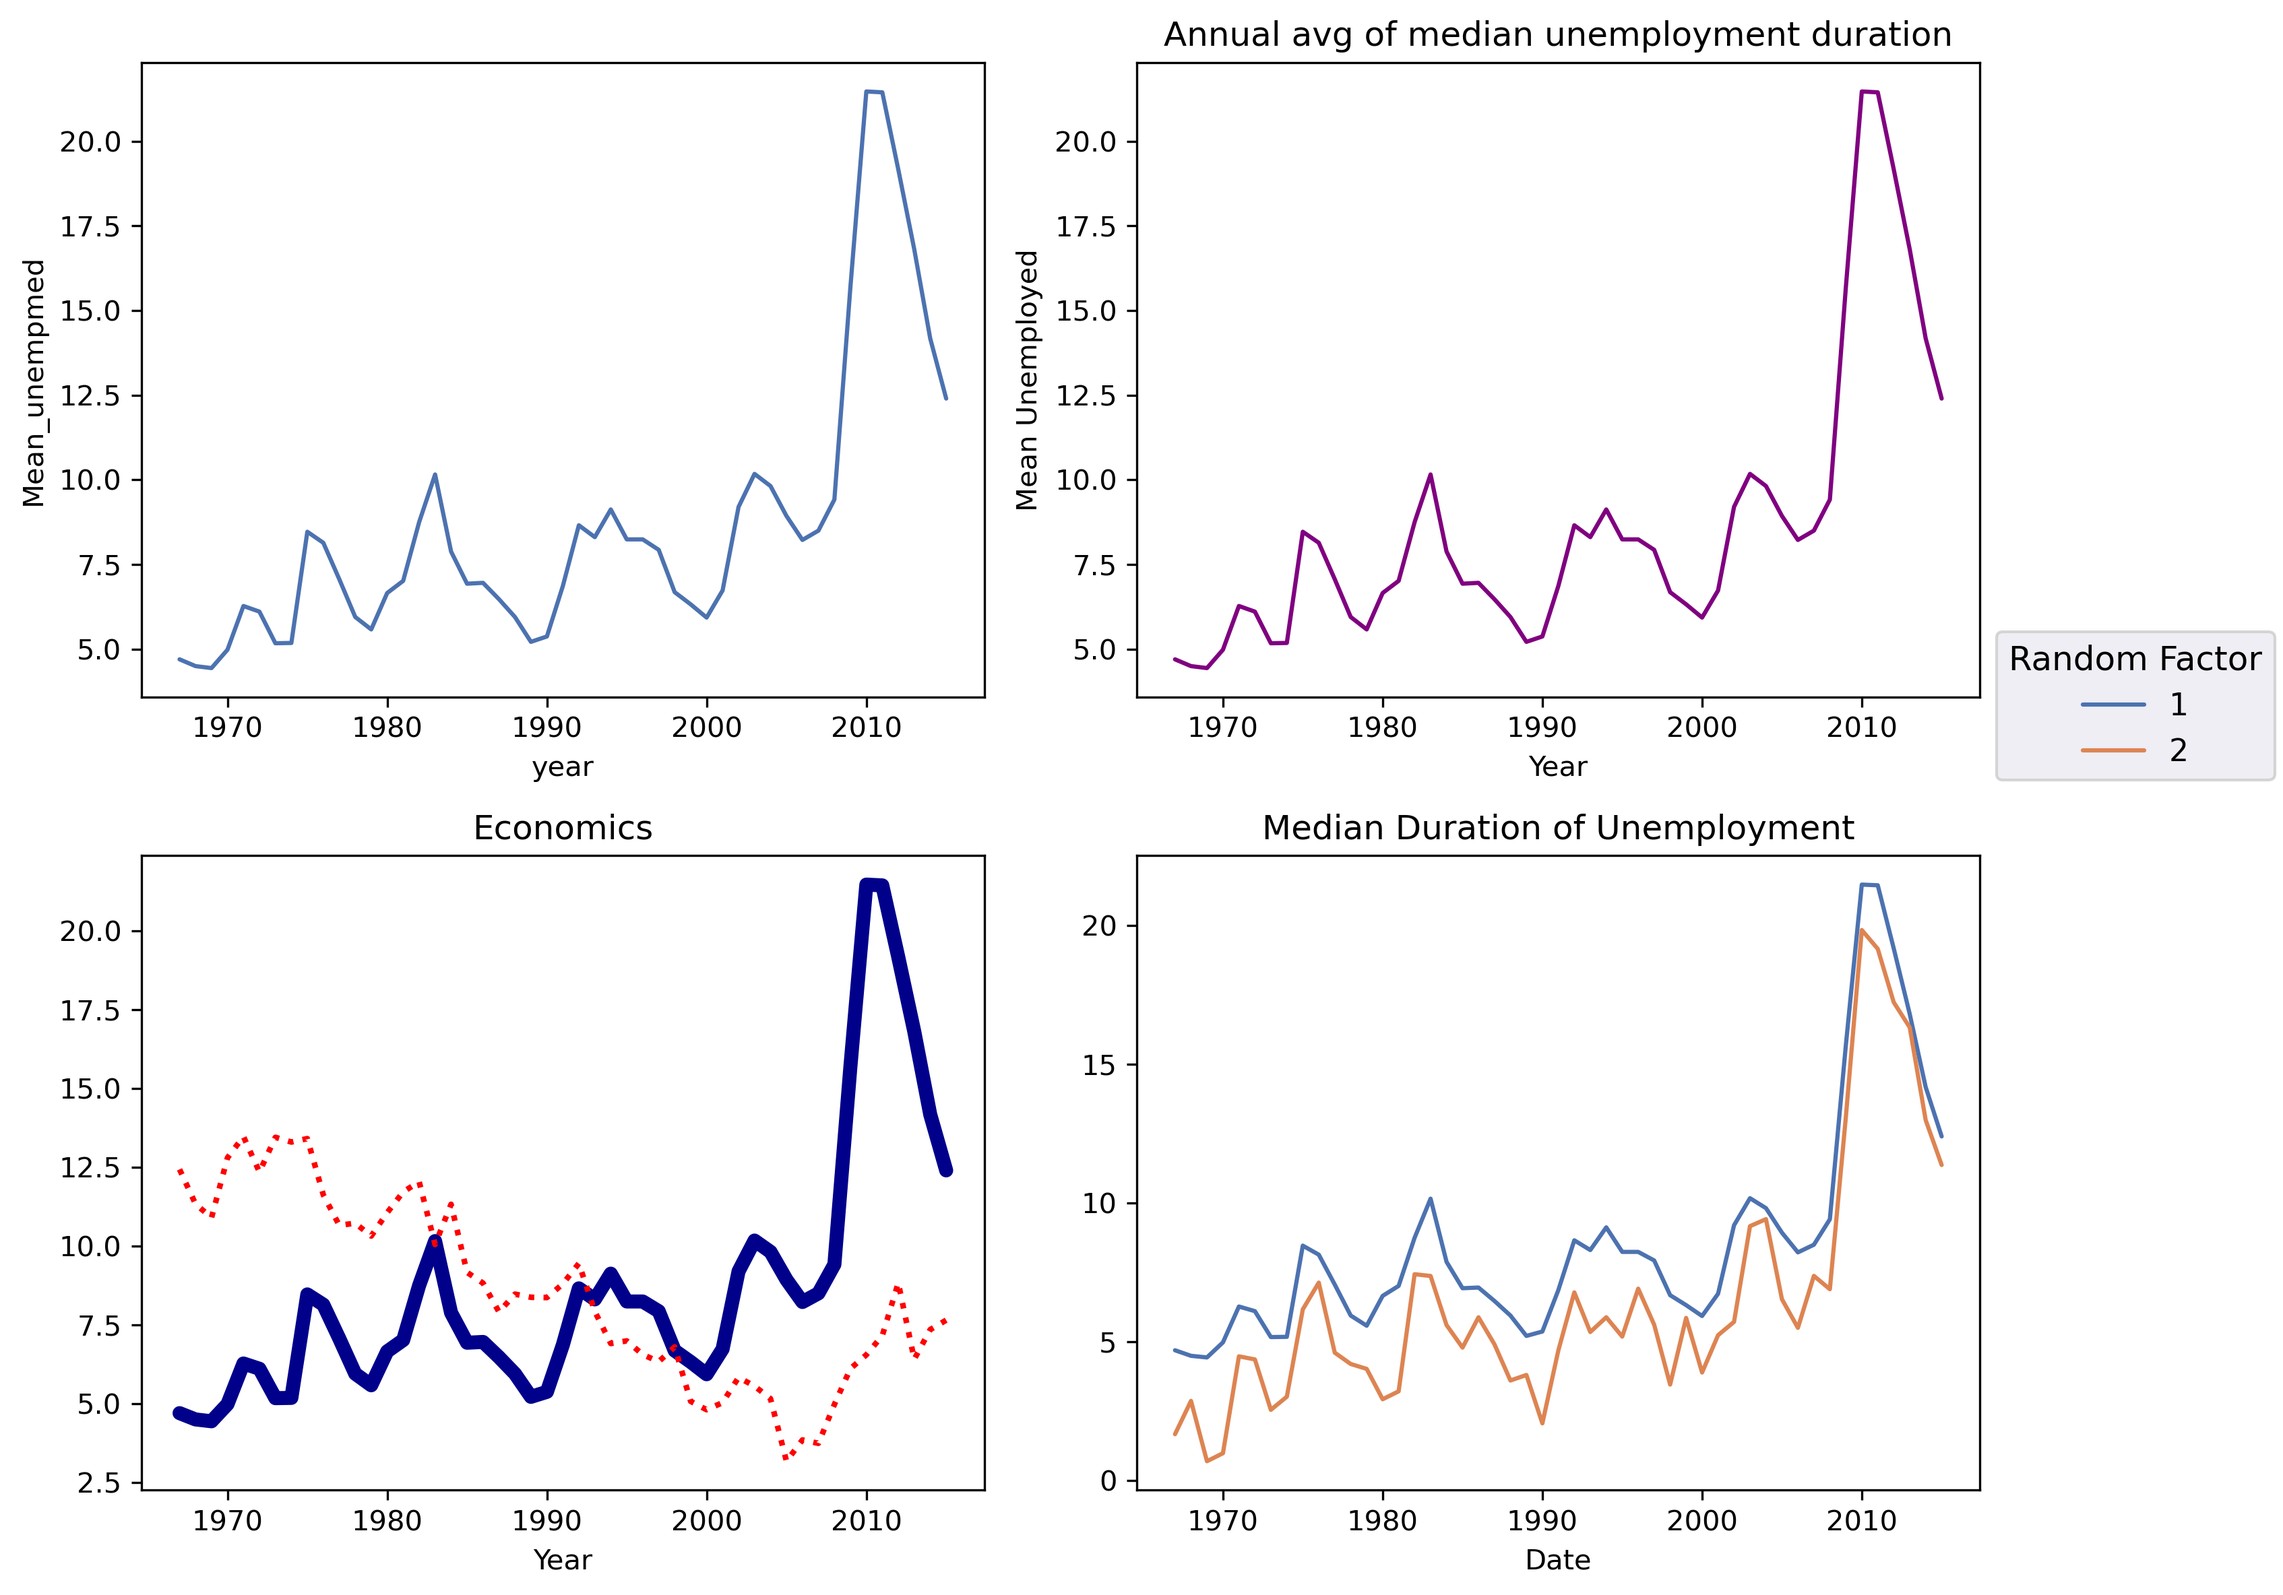
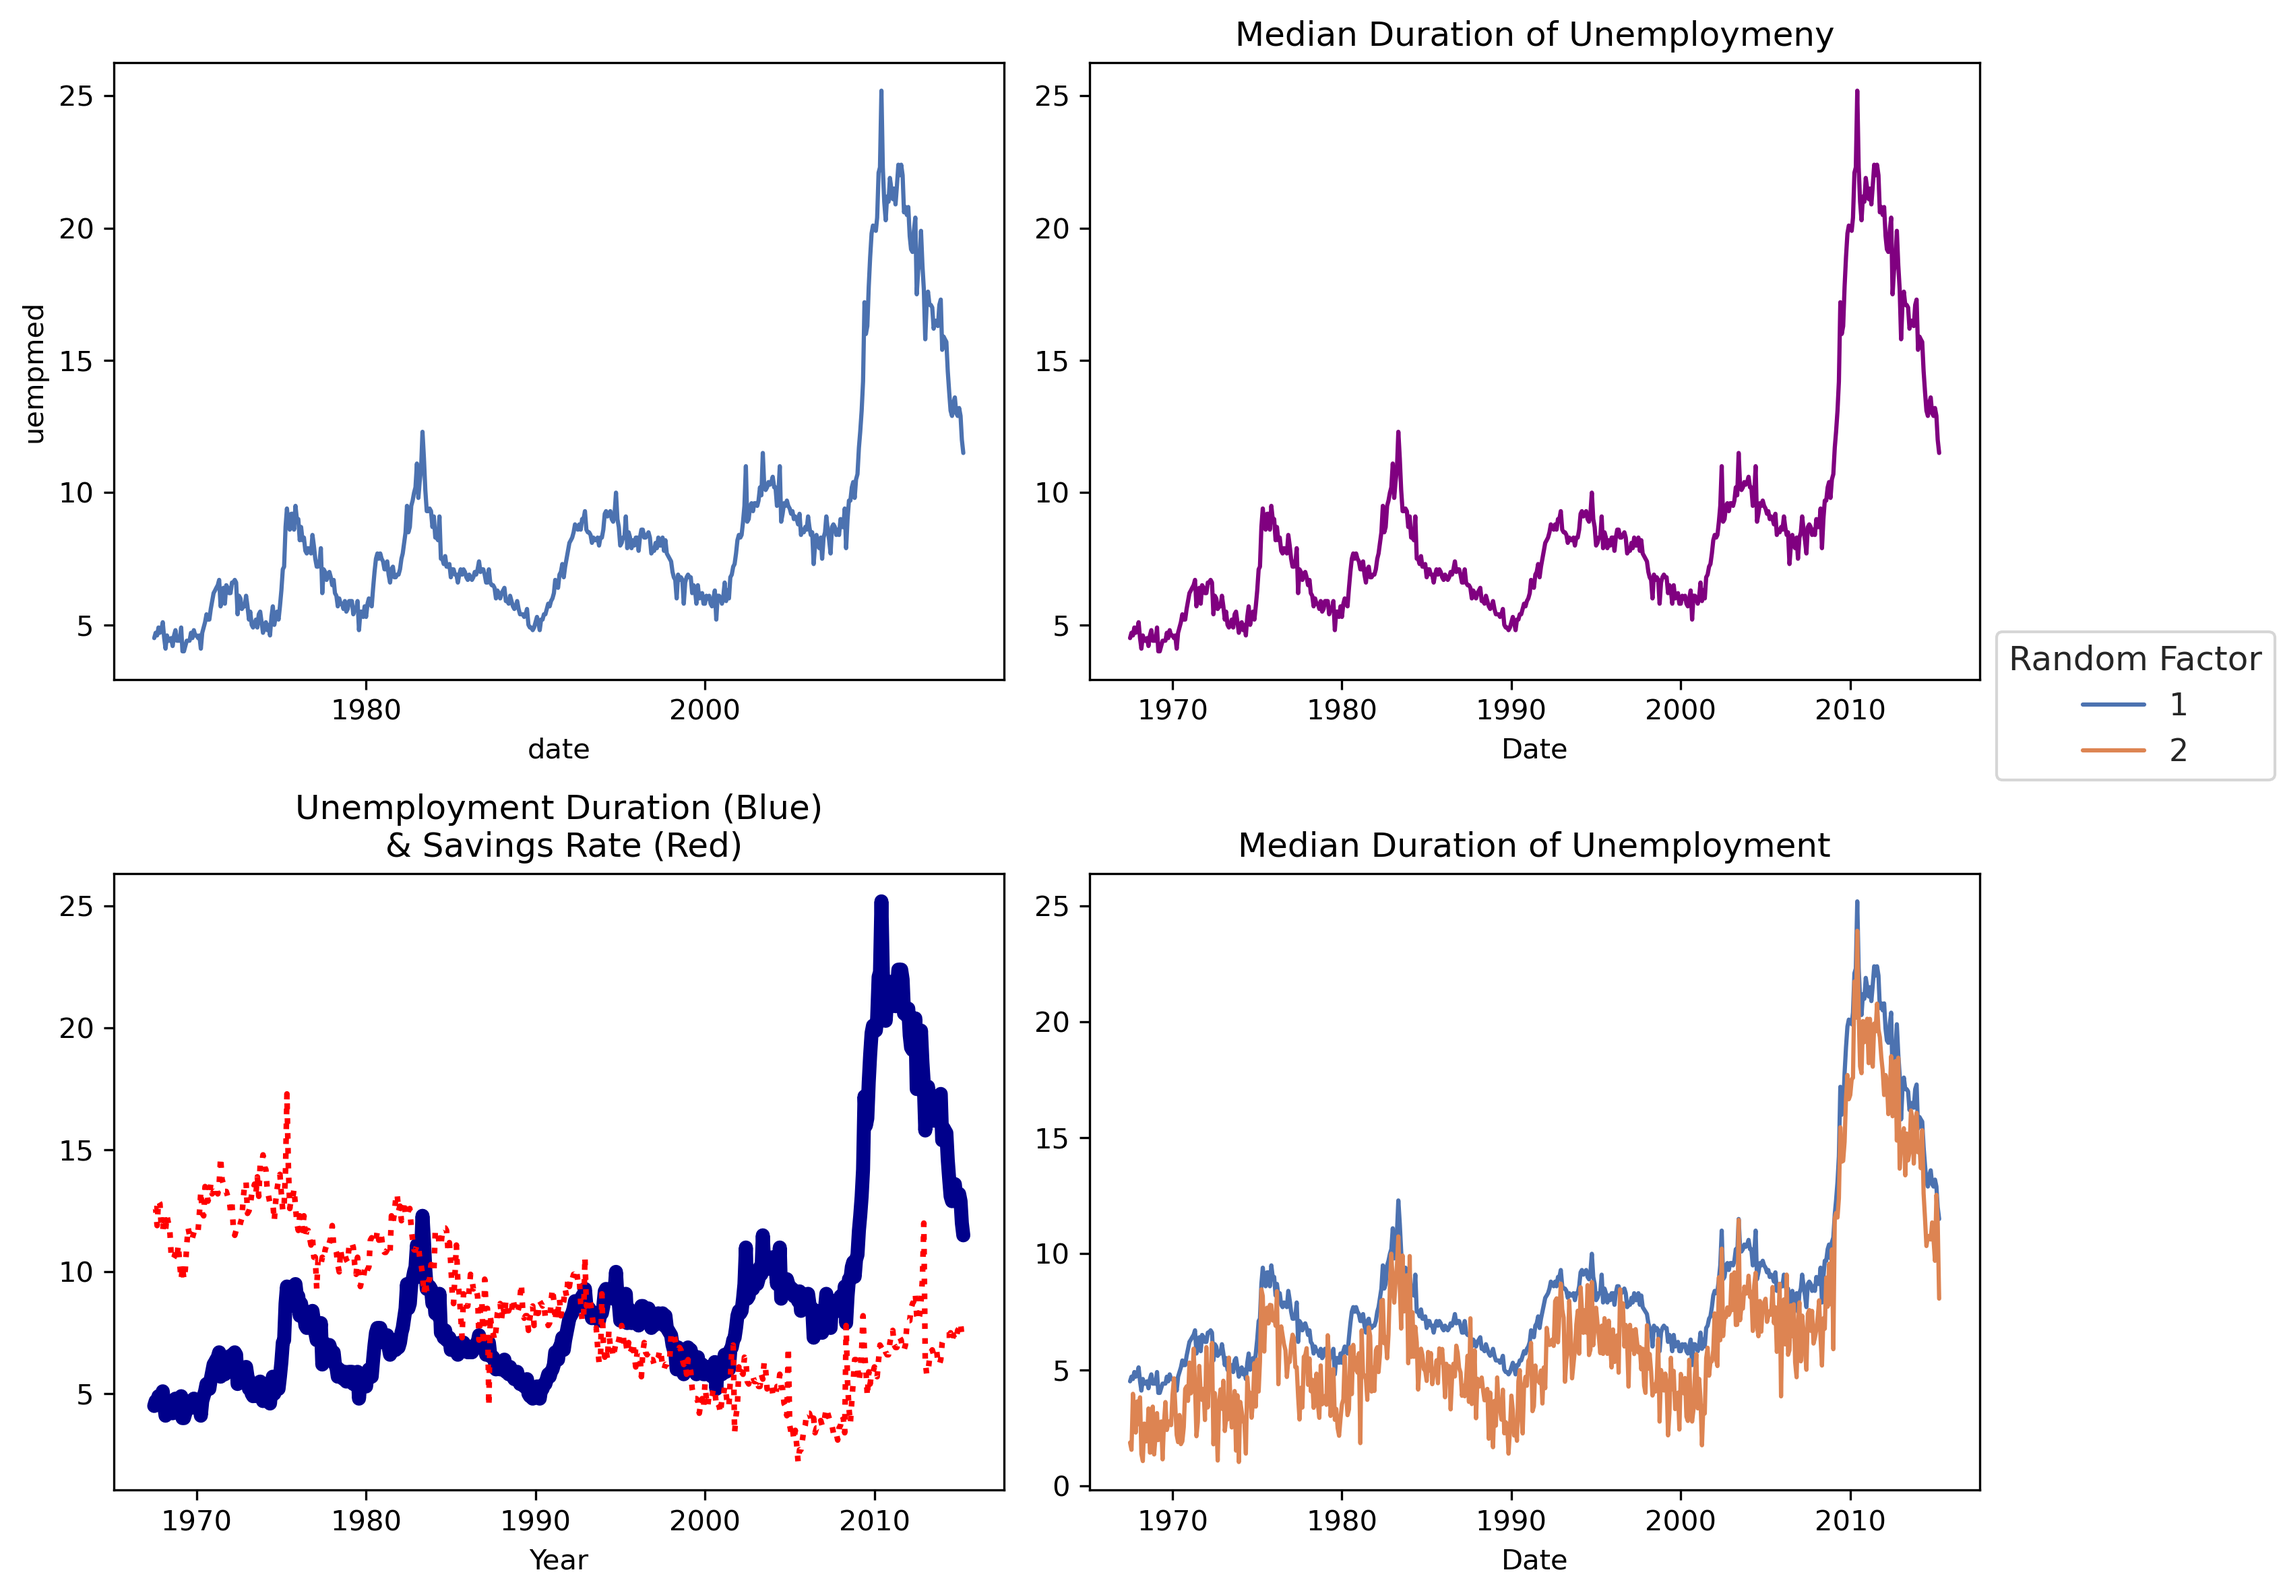
Fixed the xaxis date use (and showing the default plots as not having that fix)

diff --git a/Presentation/Figures/styling_line_graphs.md b/Presentation/Figures/styling_line_graphs.md
@@ -24,75 +24,63 @@ import pandas as pd
 import seaborn.objects as so
 import numpy as np
 import matplotlib.pyplot as plt
+from seaborn import axes_style
+
+
+
 
 # Download the economics dataset (from ggplot2 so comparison is apples-to-apples)
 url = "https://raw.githubusercontent.com/tidyverse/ggplot2/main/data-raw/economics.csv"
 economics = pd.read_csv(url)
 
-# Disclaimer on seaborn.objects.
-"""
-seaborn.objects is still under development.. Which means some things are sub-optimal
-This includes how it handles datetime x-variables, for example.
-It skips far too many years on the xticks, so, a way around that,
-is to manually extract just the year value from the date column
-and plot that. However, that would mean you have to aggregate per year, which could be
-not what you want.
-"""
+
+# Quick manipulation of dataframe to convert column to datetime
 df = (
     economics
     .assign(
-        date = lambda df: pd.to_datetime(df['date']),
-        year = lambda df: df['date'].dt.year
+        date = lambda df: pd.to_datetime(df['date'])
         )
-    .groupby(by='year')
-    .aggregate(
-        Mean_Unemploy = ('unemploy', 'mean'),
-        Mean_psavert = ('psavert', 'mean'),
-        Mean_unempmed = ('uempmed', 'mean')
-        )
-    .reset_index()
 )
 
 
-# Basic Plot with the most basic renamings
+
+# Default plots (Notice the xaxis only has 2 years! We'll fix this in p2)
 p1 = (
-    so.Plot(data=df, x='year', y='Mean_unempmed')
+    so.Plot(data=df, x='date', y='uempmed')
     .add(so.Line())
-
     )
-
 p1
 
 
 
 
-## Change line color and chart labels
+## Change line color and chart labels, and fix xaxis
 ## Note here that color is inside of the Line call, so this would color the line.
 ## If color were instead *inside* the so.Plot() object, SO would assign it
-## a different line for each value of the factor variable (column), colored differently.
-# Howeever, in our case, we can pass a color directly.
+## a different line for each value of the factor variable (column), colored differently. (Commonly referred to as hue in seaborn)
+# However, in our case, we can pass a color directly.
 p2 = (
-    so.Plot(data=df, x='year', y='Mean_unempmed')
+    so.Plot(data=df, x='date', y='uempmed')
     .add(so.Line(color='purple'))
-    .label(title='Annual avg of median unemployment duration', x='Year', y='Mean Unemployed')
-
+    .label(title='Median Duration of Unemploymeny', x='Date', y='')
+    .scale(x=so.Temporal().tick(upto=10)) #Needed for current configuration of seaborn.objects so xaxis prints more than 2 ticks
+    .theme(axes_style("whitegrid")) #use a function from parent seaborn library, that will pass a prebuilt selection based on what you pass
     )
 
 p2
 
 
 
-
-
 ## plotting multiple charts (of different line types and sizes)
 p3 = (
     so.Plot(data=df)
-    .add(so.Line(color='darkblue', linewidth=5), x='year', y='Mean_unempmed')
-    .add(so.Line(color='red', linewidth=2, linestyle='dotted'), x='year', y='Mean_psavert')
-    .label(title='Economics', 
+    .add(so.Line(color='darkblue', linewidth=5), x='date', y='uempmed')
+    .add(so.Line(color='red', linewidth=2, linestyle='dotted'), x='date', y='psavert')
+    .label(title='Unemployment Duration (Blue)\n & Savings Rate (Red)', 
            x='Year', 
            y='')
-
+    .scale(x=so.Temporal().tick(upto=10)) #Needed for current configuration of seaborn.objects so xaxis prints more than 2 ticks
+    .theme(axes_style("whitegrid")) #use a function from parent seaborn library, that will pass a prebuilt selection based on what you pass
     )
 
 p3
@@ -101,23 +89,21 @@ p3
 ## Plotting a different line type for each group
 ## There isn't a natural factor in this data so let's just duplicate the data and make one up
 df['fac'] = 1
-
 df2 = df.copy()
-
 df2['fac'] = 2
-
-df2['Mean_unempmed'] = df2['Mean_unempmed'] - 2 + np.random.normal(size=len(df2))
-
+df2['uempmed'] = df2['uempmed'] - 2 + np.random.normal(size=len(df2))
 df_final = pd.concat([df, df2], ignore_index=True).astype({'fac':'category'})
 
 
 p4 = (
-    so.Plot(data=df_final, x='year', y='Mean_unempmed', color='fac')
+    so.Plot(data=df_final, x='date', y='uempmed', color='fac')
     .add(so.Line())
     .label(title = "Median Duration of Unemployment",
            x = "Date",
            y = "",
            color='Random Factor')
+    .scale(x=so.Temporal().tick(upto=10)) #Needed for current configuration of seaborn.objects so xaxis prints more than 2 ticks
+    .theme(axes_style("whitegrid")) #use a function from parent seaborn library, that will pass a prebuilt selection based on what you pass
 )
 
 p4
@@ -141,6 +127,7 @@ plt.show()
 The four plots generated by the code are (in order p1, p2, then p3 and p4):
 
 ![Four Styled Line Graphs in Python]({{ "/Presentation/Figures/Images/Styling-Line-Graphs/styling_line_graphs_Python.png" | relative_url }})
+
 
 
 
